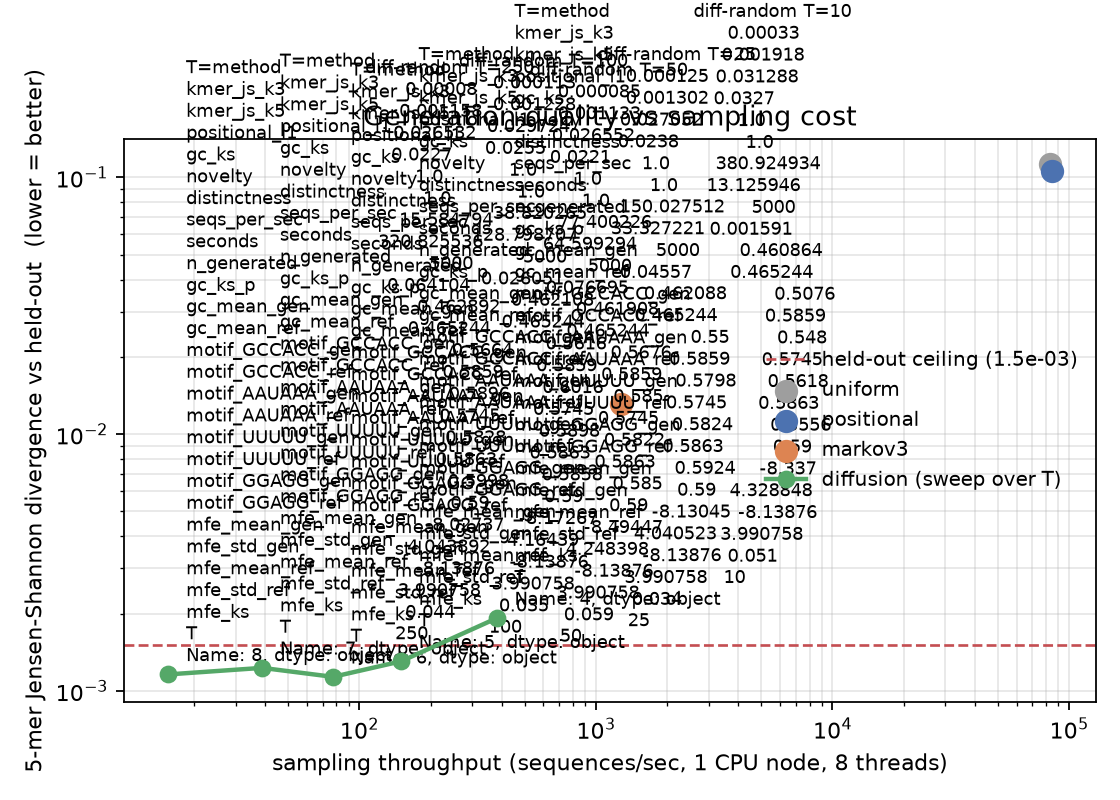
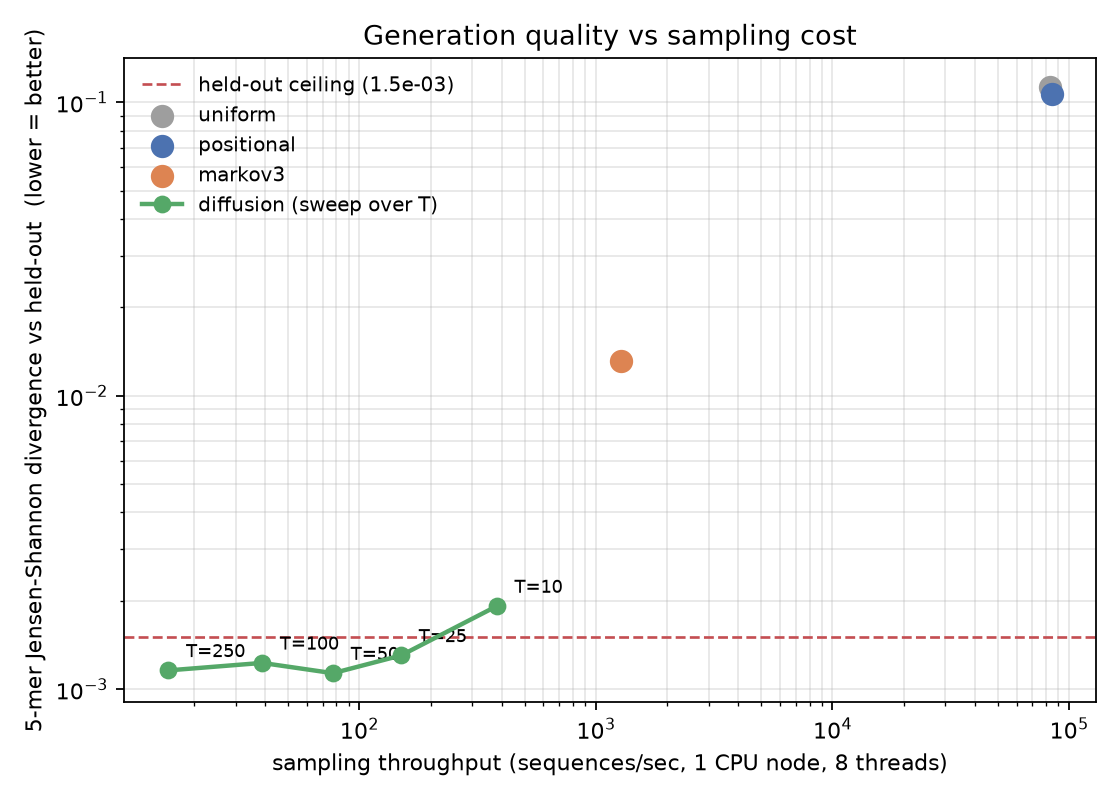
fix T annotation in quality-speed figure

diff --git a/src/plots.py b/src/plots.py
@@ -62,7 +62,7 @@ def fig_quality_speed(df, out):
         ax.plot(d.seqs_per_sec, d.kmer_js_k5, "-o", color=PALETTE["diffusion"],
                 lw=2, ms=7, zorder=4, label="diffusion (sweep over T)")
         for _, r in d.iterrows():
-            ax.annotate(f"T={r.T}", (r.seqs_per_sec, r.kmer_js_k5),
+            ax.annotate(f"T={int(r['T'])}", (r.seqs_per_sec, r.kmer_js_k5),
                         textcoords="offset points", xytext=(8, 6), fontsize=8)
 
     ax.set_xscale("log")
